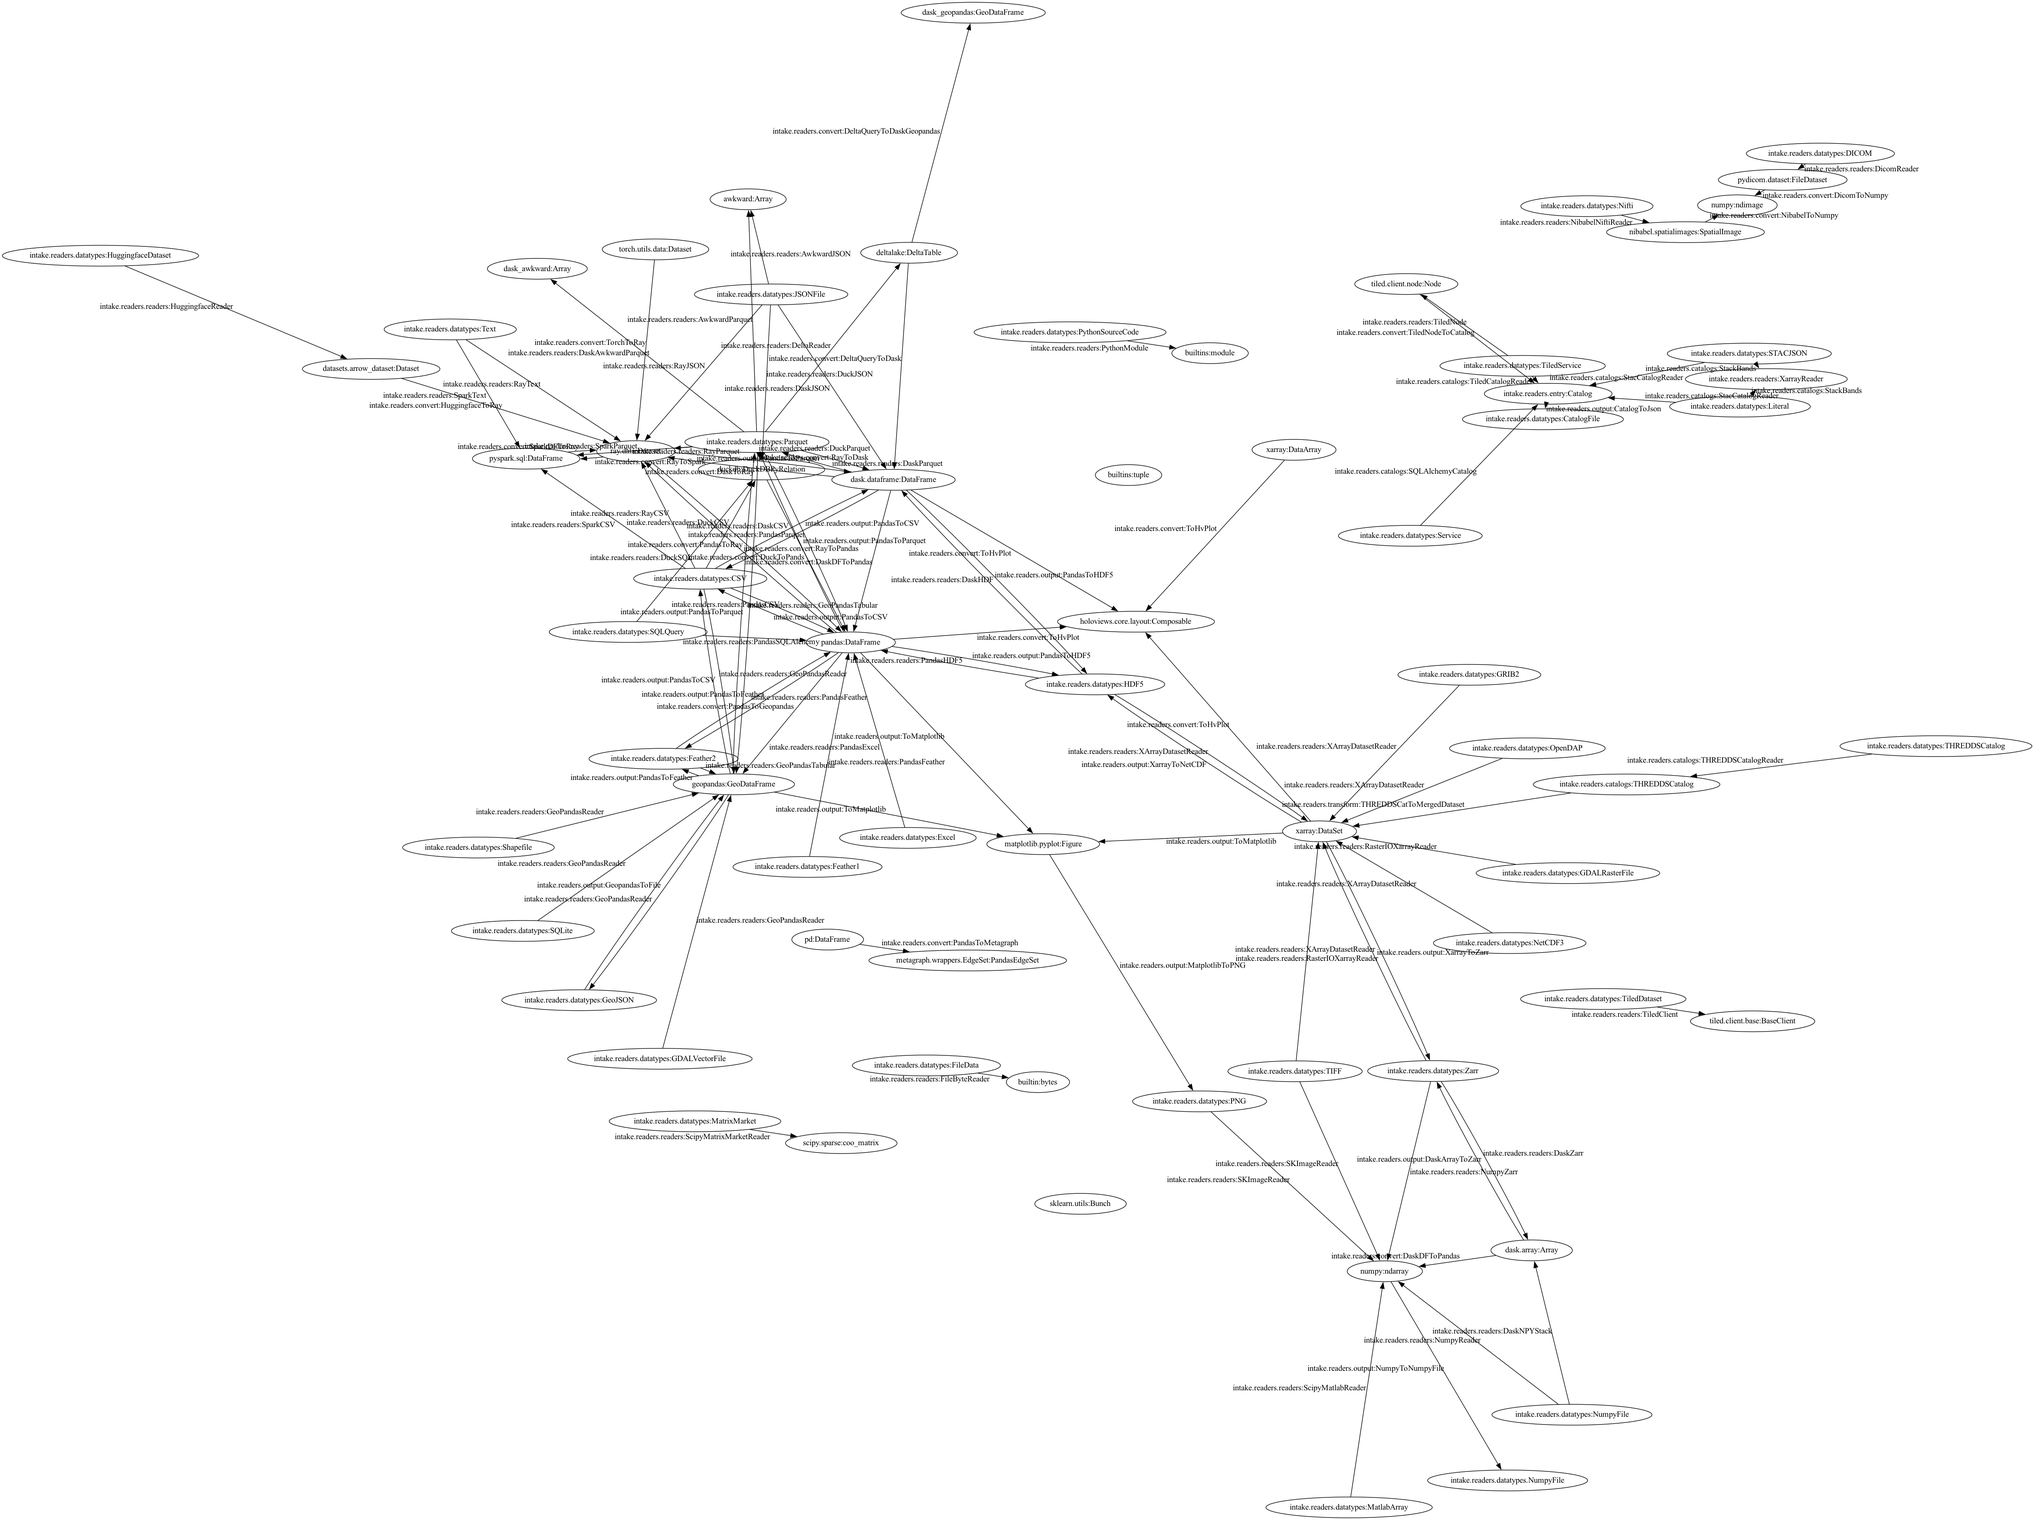
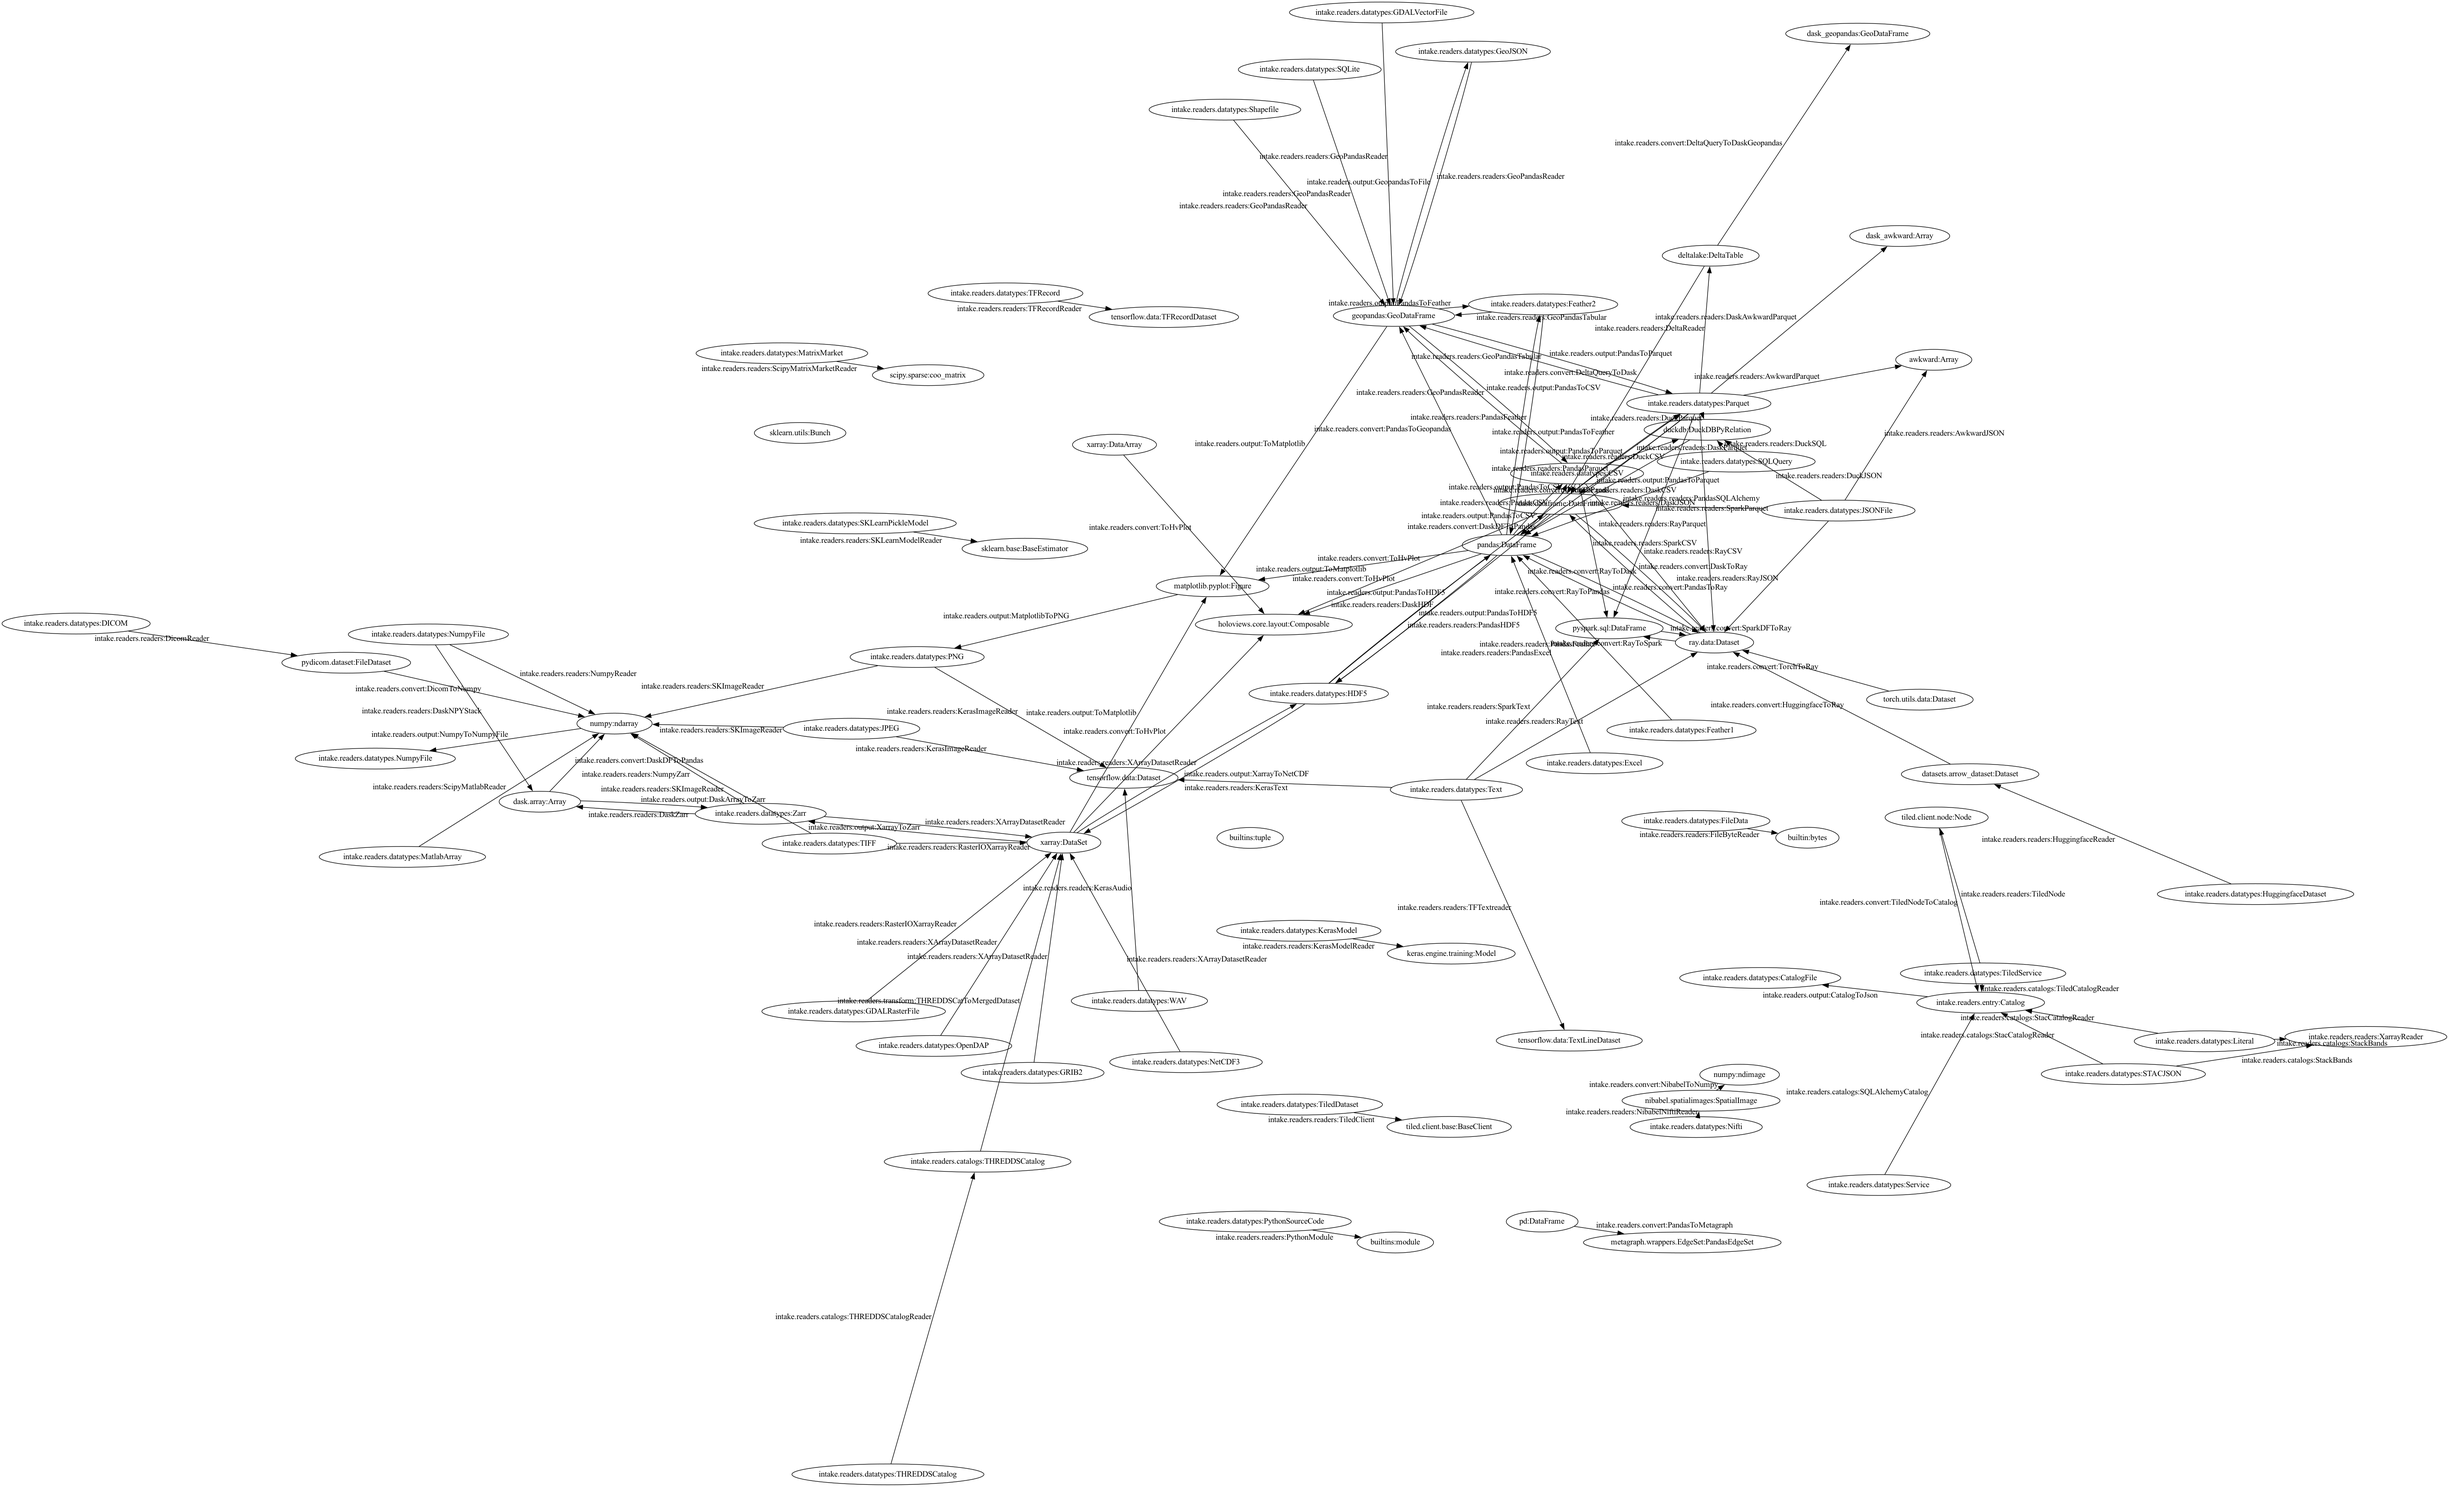
Search framework

diff --git a/intake/readers/entry.py b/intake/readers/entry.py
@@ -17,6 +17,7 @@ from intake.readers.user_parameters import (
 )
 from intake.readers.utils import (
     Tokenizable,
+    check_imports,
     extract_by_path,
     extract_by_value,
     merge_dicts,
@@ -86,6 +87,13 @@ class ReaderDescription(Tokenizable):
         self.output_instance = output_instance
         self.user_parameters: dict[str | BaseUserParameter] = user_parameters or {}
         self.metadata = metadata or {}
+
+    def check_imports(self):
+        """Are the packages listed in the "imports" key of the metadata available?"""
+        cls = import_name(self.reader)
+        class_import = cls.check_imports()
+        meta_imports = check_imports(*self.metadata.get("imports", set()))
+        return class_import & meta_imports
 
     def get_kwargs(self, user_parameters=None, **kwargs) -> dict[str, Any]:
         """Get set of kwargs for given reader, based on prescription, new args and user parameters
@@ -309,6 +317,32 @@ class Catalog(Tokenizable):
             return self.data[item]
         else:
             raise KeyError(item)
+
+    def get_aliases(self, entity: str):
+        """Return those alias names that point to the given opaque key"""
+        return {k for k, v in self.aliases.items() if v == entity}
+
+    def search(self, expr) -> Catalog:
+        """Make new catalog with a subset of this catalog
+
+        The new catalog will have those entries which pass the filter `expr`, which
+        is an instance of `intake.readers.search.BaseSearch` (i.e., has a method
+        like `filter(entry) -> bool`).
+
+        In the special case that expr is just a string, the `Text` search expression
+        will be used.
+        """
+        from intake.readers.search import Text
+
+        if isinstance(expr, str):
+            expr = Text(expr)
+        cat = Catalog()
+        for e, v in self.entries.items():
+            if expr.filter(v):
+                cat.add_entry(v)
+                aliases = self.get_aliases(e)
+                cat.aliases.update({a: e for a in aliases})
+        return cat
 
     def __getitem__(self, item):
         ups = self.user_parameters.copy()

diff --git a/intake/readers/search.py b/intake/readers/search.py
@@ -1,0 +1,77 @@
+from intake.readers.entry import ReaderDescription
+
+# some inspiration https://blueskyproject.io/tiled/reference/queries.html
+
+
+class SearchBase:
+    """Prototype for a single term in a search expression
+
+    The method `filter()` is meant to be overridden in subclasses.
+    """
+
+    def filter(self, entry: ReaderDescription) -> bool:
+        return True
+
+    def __or__(self, other):
+        return Or(self, other)
+
+    def __and__(self, other):
+        return And(self, other)
+
+    def __inv__(self):
+        return Not(self)
+
+
+class Or(SearchBase):
+    def __init__(self, first: SearchBase, second: SearchBase):
+        self.first = first
+        self.second = second
+
+    def filter(self, entry: ReaderDescription) -> bool:
+        return self.first.filter(entry) or self.second.filter(entry)
+
+
+class And(SearchBase):
+    def __init__(self, first: SearchBase, second: SearchBase):
+        self.first = first
+        self.second = second
+
+    def filter(self, entry: ReaderDescription) -> bool:
+        return self.first.filter(entry) and self.second.filter(entry)
+
+
+class Not(SearchBase):
+    def __init__(self, first: SearchBase):
+        self.first = first
+
+    def filter(self, entry: ReaderDescription) -> bool:
+        return not self.first.filter(entry)
+
+
+class Any(SearchBase):
+    def __init__(self, *terms: tuple[SearchBase, ...]):
+        self.terms = terms
+
+    def filter(self, entry: ReaderDescription) -> bool:
+        return any(t.filter(entry) for t in self.terms)
+
+
+class All(SearchBase):
+    def __init__(self, *terms: tuple[SearchBase, ...]):
+        self.terms = terms
+
+    def filter(self, entry: ReaderDescription) -> bool:
+        return all(t.filter(entry) for t in self.terms)
+
+
+class Text(SearchBase):
+    def __init__(self, text: str):
+        self.text = text
+
+    def filter(self, entry: ReaderDescription) -> bool:
+        return self.text in str(entry)
+
+
+class Importable(SearchBase):
+    def filter(self, entry: ReaderDescription) -> bool:
+        return entry.check_imports()

diff --git a/intake/readers/tests/test_search.py b/intake/readers/tests/test_search.py
@@ -1,0 +1,34 @@
+from intake.readers.entry import Catalog, ReaderDescription
+from intake.readers.readers import BaseReader
+from intake.readers.search import Importable, Text
+
+
+class NotImportable(BaseReader):
+    # TODO: this will show up in the class hierarchy throughout testing
+    imports = {"unknown_package"}
+
+
+def test_1():
+    cat = Catalog()
+    cat["en1"] = ReaderDescription("intake.readers.readers:BaseReader", kwargs={"allow_me": True})
+    cat["en2"] = ReaderDescription("intake.readers.readers:BaseReader", kwargs={"nope": True})
+    cat["en3"] = ReaderDescription("intake.readers.tests.test_search:NotImportable", kwargs={"allow_me": True})
+
+    # simple text
+    cat2 = cat.search("allow")
+    assert "en1" in cat2
+    assert "en2" not in cat2
+    assert "en3" in cat2
+    assert cat2["en3"] == cat["en3"]
+
+    # single term
+    cat2 = cat.search(Importable())
+    assert "en1" in cat2
+    assert "en2" in cat2
+    assert "en3" not in cat2
+
+    # expression
+    cat2 = cat.search(Importable() & Text("allow"))
+    assert "en1" in cat2
+    assert "en2" not in cat2
+    assert "en3" not in cat2

diff --git a/intake/readers/importlist.py b/intake/readers/importlist.py
@@ -1,3 +1,21 @@
+"""Imports made my intake when it itself is imported
+
+Since "plugins" are just subclasses of things like intake.readers.readers.BaseReader,
+importing them is enough for registration.
+
+To include imports from a package in the list of things to import, the canonical thing
+to do is include an entry under "intake.imports" in the package entrypoints; the value
+of each item will be imported.
+
+The following config keys define behaviour:
+
+- import_on_startup: if False, makes no automatic imports
+- entrypoints_block_list: if an entrypoints import has a top-level package name
+  in this list, it will be skipped
+- import_extras: values in this list will be imported after processing entrypoints. This is
+  a way to include imports without installing packages/entrypoints.
+"""
+
 from intake import conf, import_name, logger
 from importlib.metadata import entry_points
 

diff --git a/intake/readers/datatypes.py b/intake/readers/datatypes.py
@@ -170,7 +170,7 @@ class NetCDF3(FileData):
 
 
 class HDF5(FileData):
-    filepattern = "(hdf5?$|h4$)"  # many others by convention
+    filepattern = "(hdf5?|h4|nc)$"  # many others by convention
     structure = {"array", "table", "hierarchy"}
     magic = {b"HDF"}
     mimetypes = "application/x-hdf5?"
@@ -452,8 +452,9 @@ def recommend(url=None, mime=None, head=True, storage_options=None, ignore=None)
 
     Returns
     -------
-    set of matching datatype classes
+    set of matching datatype classes.
     """
+    # TODO: more complex returns defining which type of match hit what, or some kind of score
     outs = ignore or set()
     out = []
     if isinstance(url, (list, tuple)):

diff --git a/intake/readers/readers.py b/intake/readers/readers.py
@@ -430,7 +430,7 @@ class SKLearnModelReader(FileReader):
     # https://scikit-learn.org/stable/model_persistence.html
     # recommends skops, which seems little used
     imports = {"sklearn"}
-    implements = {datatypes.SKLearnModel}
+    implements = {datatypes.SKLearnPickleModel}
     func = "pickle:load"
     output_instance = "sklearn.base:BaseEstimator"
 
@@ -599,7 +599,7 @@ class PythonModule(BaseReader):
 class SKImageReader(FileReader):
     output_instance = "numpy:ndarray"
     imports = {"scikit-image"}
-    implements = {datatypes.PNG, datatypes.TIFF}
+    implements = {datatypes.PNG, datatypes.TIFF, datatypes.JPEG}
     func = "skimage.io:imread"
     url_arg = "fname"
 

diff --git a/intake/readers/tests/cats/test_tiled.py b/intake/readers/tests/cats/test_tiled.py
@@ -13,6 +13,7 @@ tiled = pytest.importorskip("tiled")
 def tiled_server():
     t0 = time.time()
     cmd = "tiled serve demo --port 8901"
+    fail = False
     P = subprocess.Popen(shlex.split(cmd), stdout=subprocess.DEVNULL, stderr=subprocess.PIPE, bufsize=1, text=True)
     while True:
         line = P.stderr.readline()
@@ -23,9 +24,11 @@ def tiled_server():
             break
         time.sleep(0.01)
         if time.time() - t0 > 5:
-            break
+            fail = True
     P.kill()
     P.wait()
+    if fail:
+        raise RuntimeError("tiled fixture did not start")
 
 
 def test_catalog_workflow(tiled_server):
